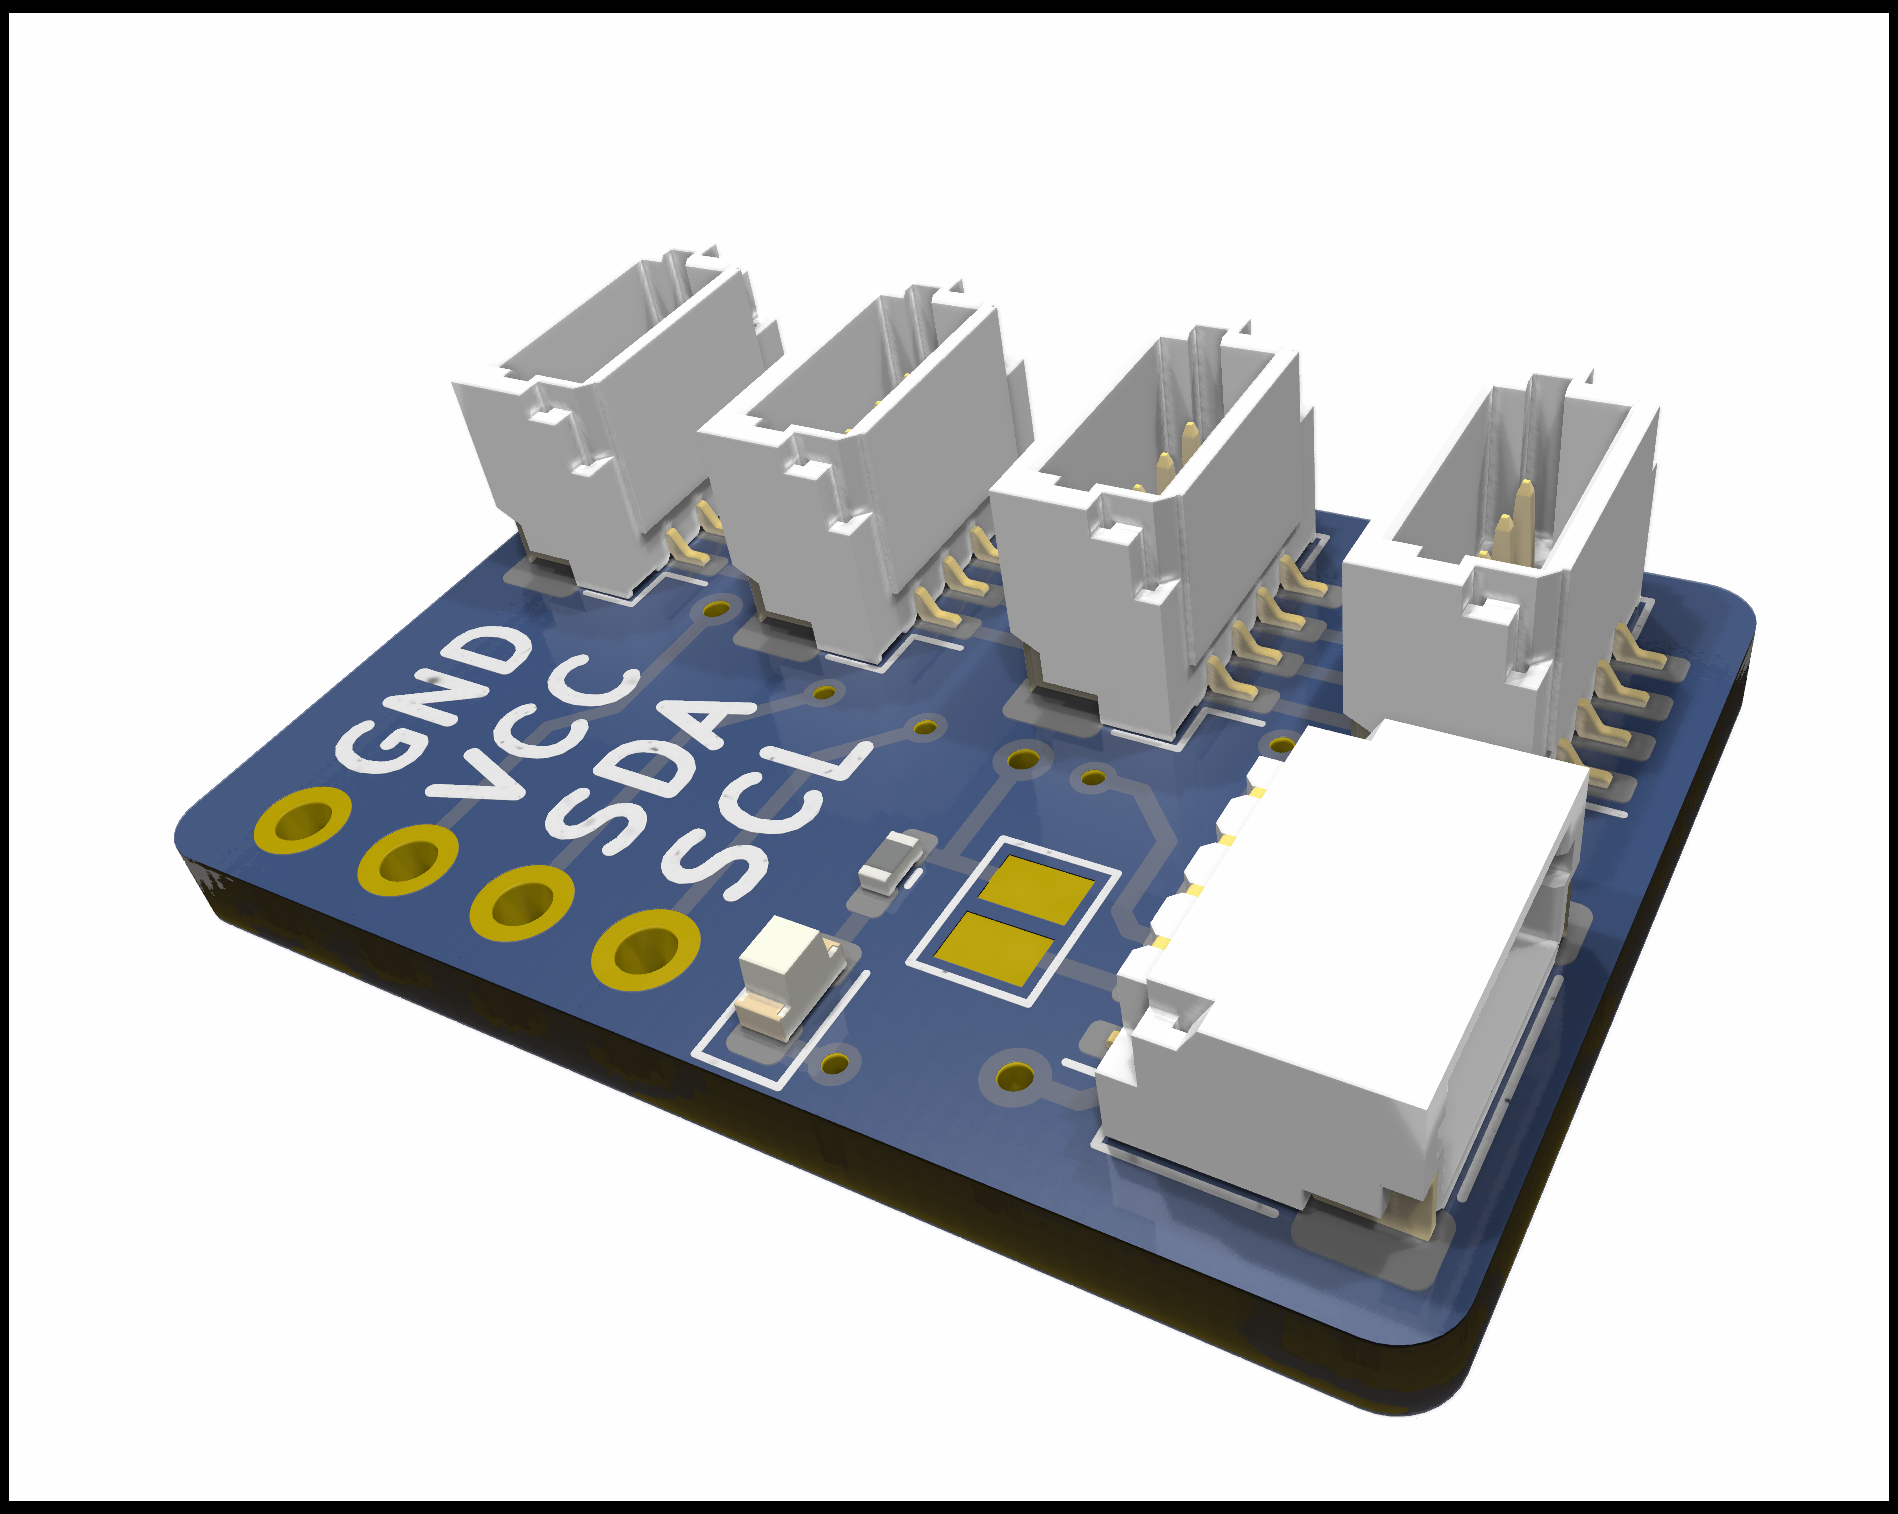
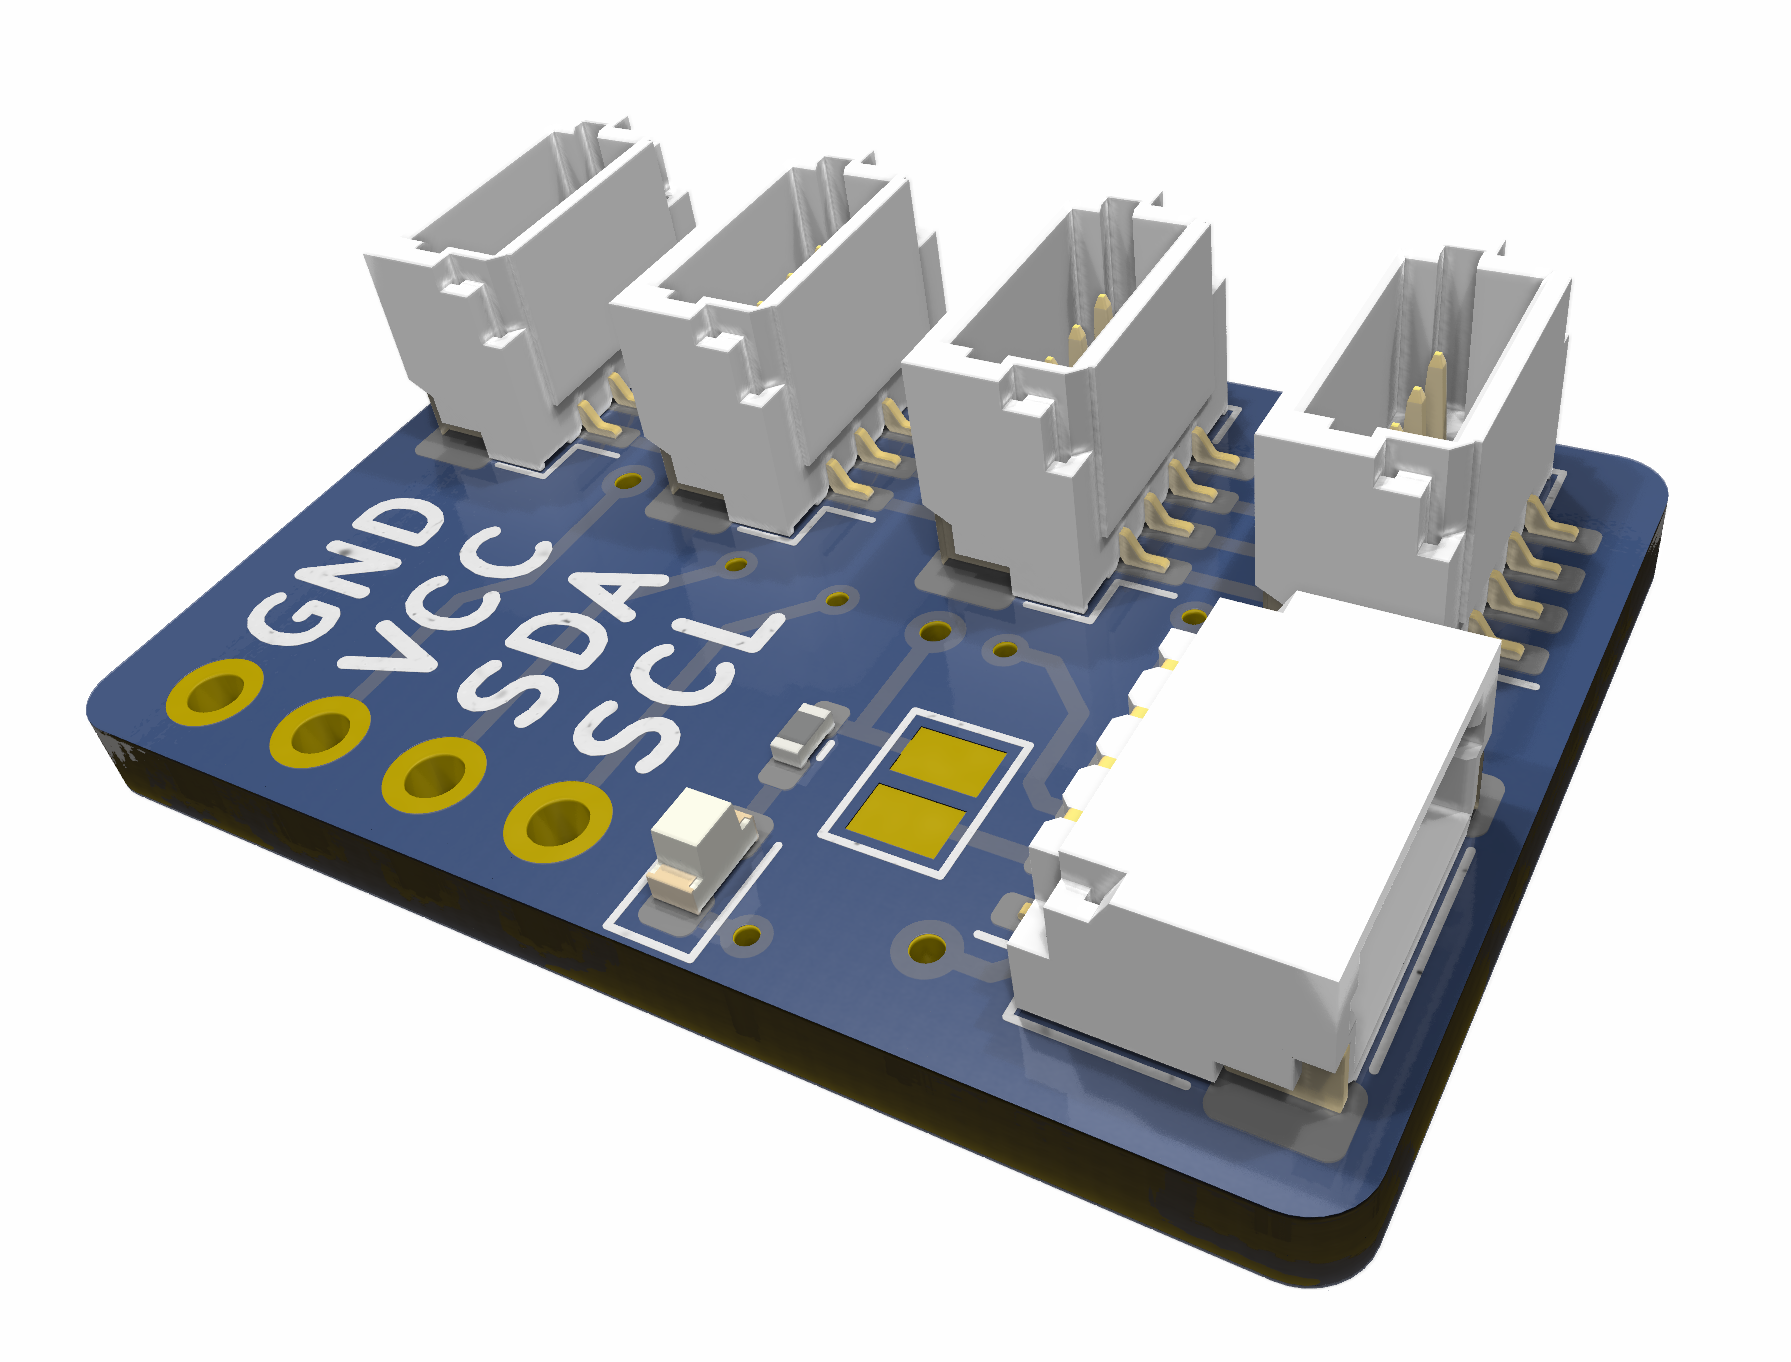
Added QWIIC hub documentation.

diff --git a/smd_adapters/README.md b/smd_adapters/README.md
@@ -1,24 +1,20 @@
-#SMD to DIP Adapters for GreenPAK SPLDs.
+# QWIIC I2C Hub
 
-These PCBs designs be ordered from PCB houses such as JLCPCB and are useful for prototyping with GreenPAK devices using solderless or other breadboards. They can be programmed or accessed via a QWIIC (I2C)  connector using boards such as Raspberry PI Pico which are supported
-by the [greenpak](https://pypi.org/project/greenpak/) Python package. The recomanded PCB thickness is 0.8mm or 1.0mm for easy breakaway though standard 1.6mm thickness should be just fine.
+This little board provides a 1 to 5 fanout of QWIIC (I2C) connectors and allow to connect together multiple QWIIC boards such as the GreenPAK SMD adapters.
 
 
 Item | Value | Comments
 ---|---|---
-R1 | 2K - 5K | SCL pullup resistor.
-R2 | 2K - 5K | SDA pullup resistor.
-C1 | 0.1uf | VDD bypass capacitor.
-C2 | 0.1uf | VDD2 bypass capacitor.
-J1 | JST SH 1.0mm right angle SMD | QWIIC and STEMMA QT compatible connector.
+J1  |JST SH 1.0mm horizontal SMD | QWIIC input, from master.
+J2- J6 |JST SH 1.0mm vertical SMD | QWIIC outputs, to slaves.
+LED | Green LED  0603| Power indicator.
+R | 3K - 7K 0603 resistor | LED current limiter.
 
-R1, R2, C1, C2, can be of 0402, 0603, or 0805 footptints.
+<br>
 
+<br>
 
-## Front side
-<img  src="https://raw.githubusercontent.com/zapta/greenpak_misc/main/smd_adapters/smd_adapters.png"
+<img  src="https://raw.githubusercontent.com/zapta/greenpak_misc/main/qwiic_hub/qwiic_hub.png"
       style="display: block;margin-left: auto;margin-right: auto;width: 80%;" />
 
-## Back side
-<img  src="https://raw.githubusercontent.com/zapta/greenpak_misc/main/smd_adapters/smd_adapters_rear.png"
-      style="display: block;margin-left: auto;margin-right: auto;width: 80%;" />
+

diff --git a/qwiic_hub/README.md b/qwiic_hub/README.md
@@ -1,0 +1,24 @@
+#SMD to DIP Adapters for GreenPAK SPLDs.
+
+These PCBs designs be ordered from PCB houses such as JLCPCB and are useful for prototyping with GreenPAK devices using solderless or other breadboards. They can be programmed or accessed via a QWIIC (I2C)  connector using boards such as Raspberry PI Pico which are supported
+by the [greenpak](https://pypi.org/project/greenpak/) Python package. The recomanded PCB thickness is 0.8mm or 1.0mm for easy breakaway though standard 1.6mm thickness should be just fine.
+
+
+Item | Value | Comments
+---|---|---
+R1 | 2K - 5K | SCL pullup resistor.
+R2 | 2K - 5K | SDA pullup resistor.
+C1 | 0.1uf | VDD bypass capacitor.
+C2 | 0.1uf | VDD2 bypass capacitor.
+J1 | JST SH 1.0mm right angle SMD | QWIIC and STEMMA QT compatible connector.
+
+R1, R2, C1, C2, can be of 0402, 0603, or 0805 footptints.
+
+
+## Front side
+<img  src="https://raw.githubusercontent.com/zapta/greenpak_misc/main/smd_adapters/smd_adapters.png"
+      style="display: block;margin-left: auto;margin-right: auto;width: 80%;" />
+
+## Back side
+<img  src="https://raw.githubusercontent.com/zapta/greenpak_misc/main/smd_adapters/smd_adapters_rear.png"
+      style="display: block;margin-left: auto;margin-right: auto;width: 80%;" />
